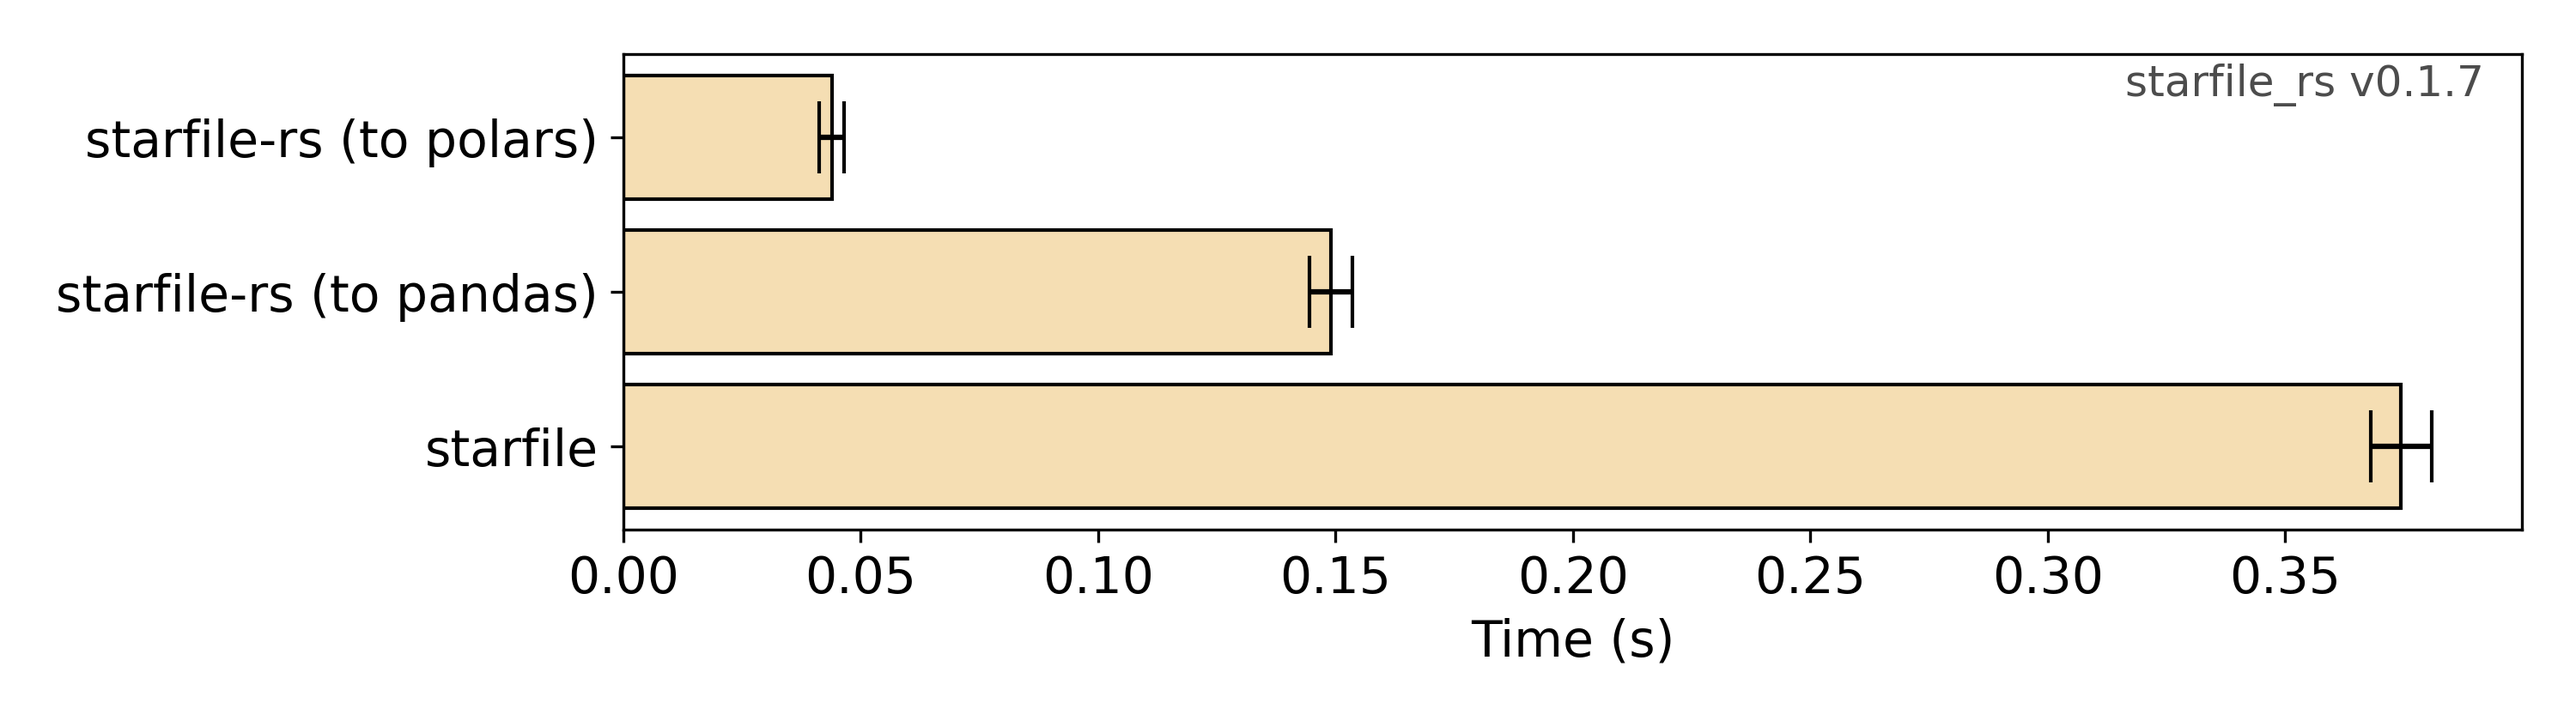
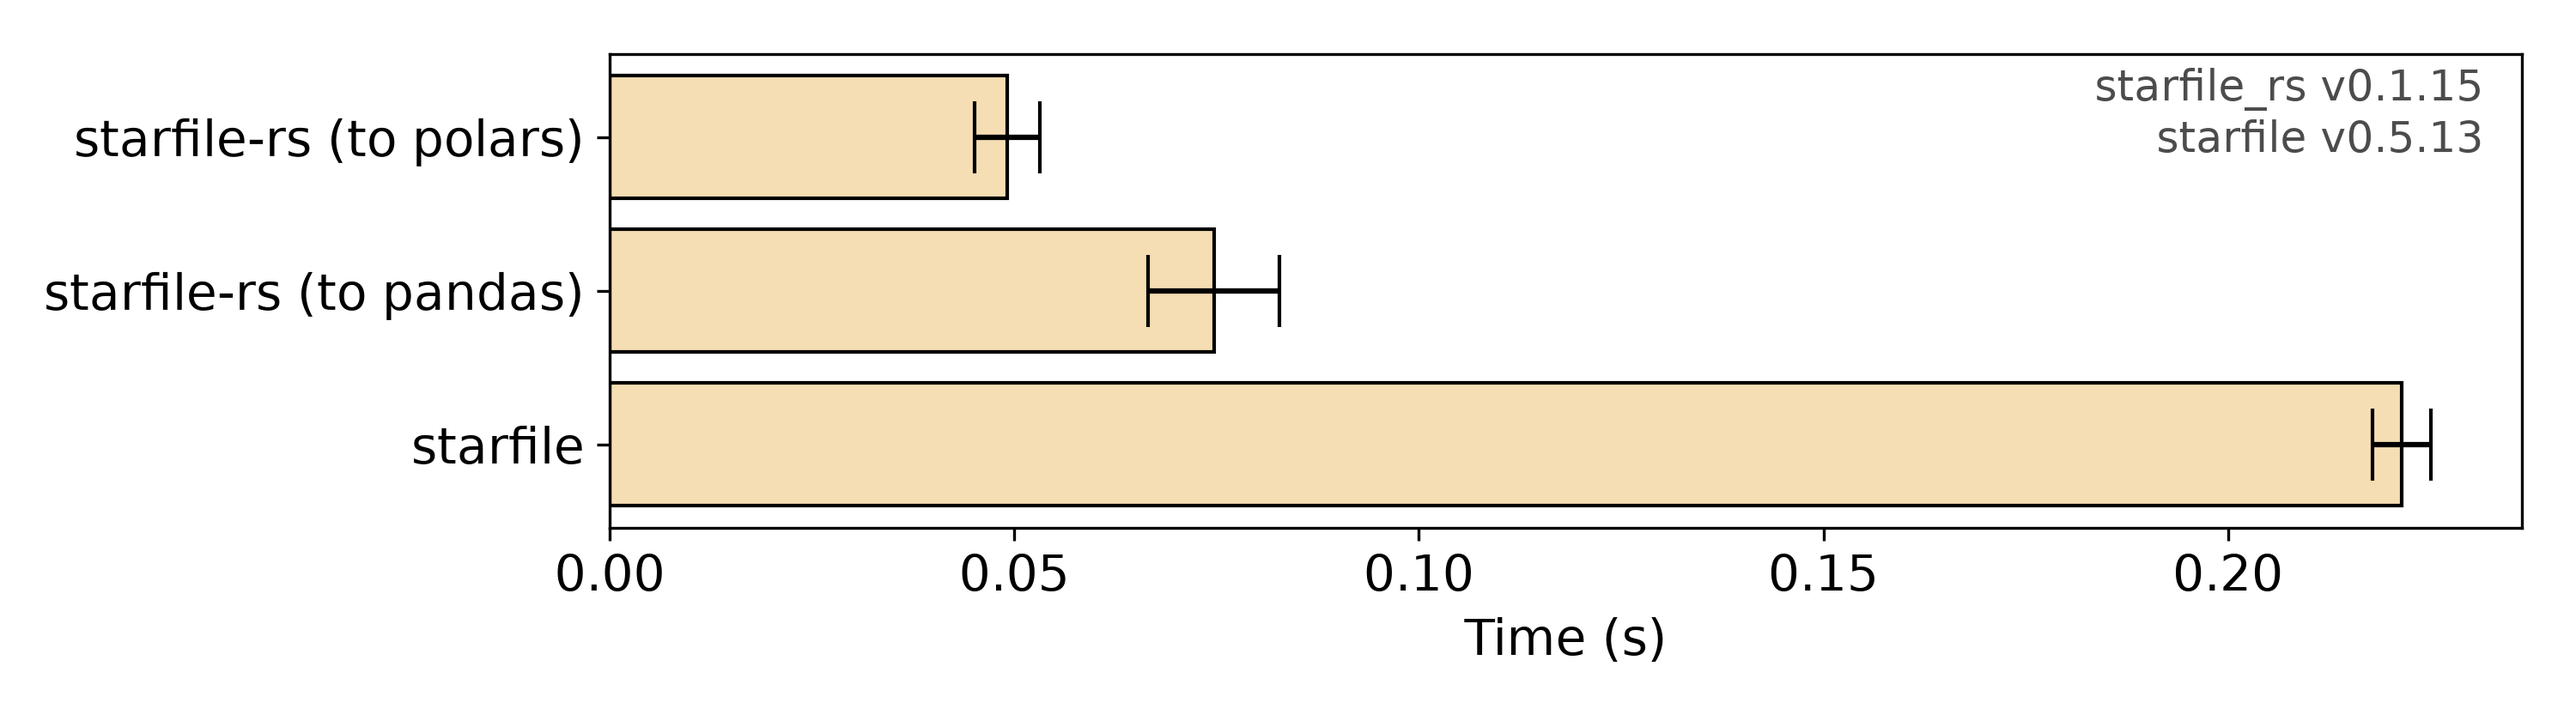
bug fix for loop block with comment out

diff --git a/src/reader.rs b/src/reader.rs
@@ -249,6 +249,8 @@ fn parse_loop_block<R: io::BufRead>(
                 let buf_trim = buf.trim_ascii_end();
                 if buf_trim.is_empty() {
                     continue; // Skip empty lines
+                } else if buf_trim.starts_with(b"#") {
+                    continue; // Skip comments
                 } else if buf_trim.starts_with(b"_") {
                     let buf_vec = remove_comment(&buf_trim);
                     // SAFETY: Column names should be ASCII-compatible
@@ -285,7 +287,9 @@ fn parse_loop_block<R: io::BufRead>(
                 let buf_trim = buf.trim_ascii_end();
                 if buf_trim.is_empty() {
                     break Vec::new(); // End of block
-                } else if buf.starts_with(b"data_") {
+                } else if buf_trim.starts_with(b"#") {
+                    continue; // Skip comments
+                } else if buf_trim.starts_with(b"data_") {
                     break Vec::new(); // Start of next block
                 } else {
                     last_line.extend(buf_trim);

diff --git a/python/tests/test_parsing.py b/python/tests/test_parsing.py
@@ -373,3 +373,26 @@ def test_simple_block_with_newlines():
     star = read_star_text(star_text)
     assert list(star.keys()) == ['A', 'B']
     assert star["A"].trust_single().to_dict() == {'a': 1, 'b': 2, 'c': 'text'}
+
+def test_comment_out():
+    star_text = [
+        "data_1",
+        "#",
+        "loop_",
+        "_atom_site.group_PDB",
+        "_atom_site.id",
+        "ATOM 1",
+        "ATOM 2",
+        "ATOM 3",
+        "#",
+        "",
+    ]
+    star_text = "\n".join(star_text)
+
+    star = read_star_text(star_text)
+    assert list(star.keys()) == ['1']
+    assert star["1"].columns == ['atom_site.group_PDB', 'atom_site.id']
+    assert star["1"].trust_loop().shape == (3, 2)
+
+    assert star["1"].to_pandas().shape == (3, 2)
+    assert star["1"].to_polars().shape == (3, 2)

diff --git a/python/tests/test_schema.py b/python/tests/test_schema.py
@@ -779,3 +779,20 @@ def test_block_default_factory():
     s = Star.validate_dict({})
     assert s.loop.x.to_list() == []
     # assert "X" not in s.to_string()
+
+def test_setting_loop_block_that_is_empty_now():
+    import polars as pl
+    from starfile_rs.schema.polars import LoopDataModel, Series
+
+    class Loop(LoopDataModel):
+        x: Series[int] = Field("X")
+        y: Series[int] = Field("Y")
+
+    class Star(StarModel):
+        loop: Loop = Field(default_factory=Loop.empty)
+
+    s = Star.validate_dict({})
+    assert s.loop.x.to_list() == []
+    s.loop = pl.DataFrame({"X": [1, 2, 3], "Y": [4, 5, 6]})
+    assert s.loop.x.to_list() == [1, 2, 3]
+    assert s.loop.y.to_list() == [4, 5, 6]
